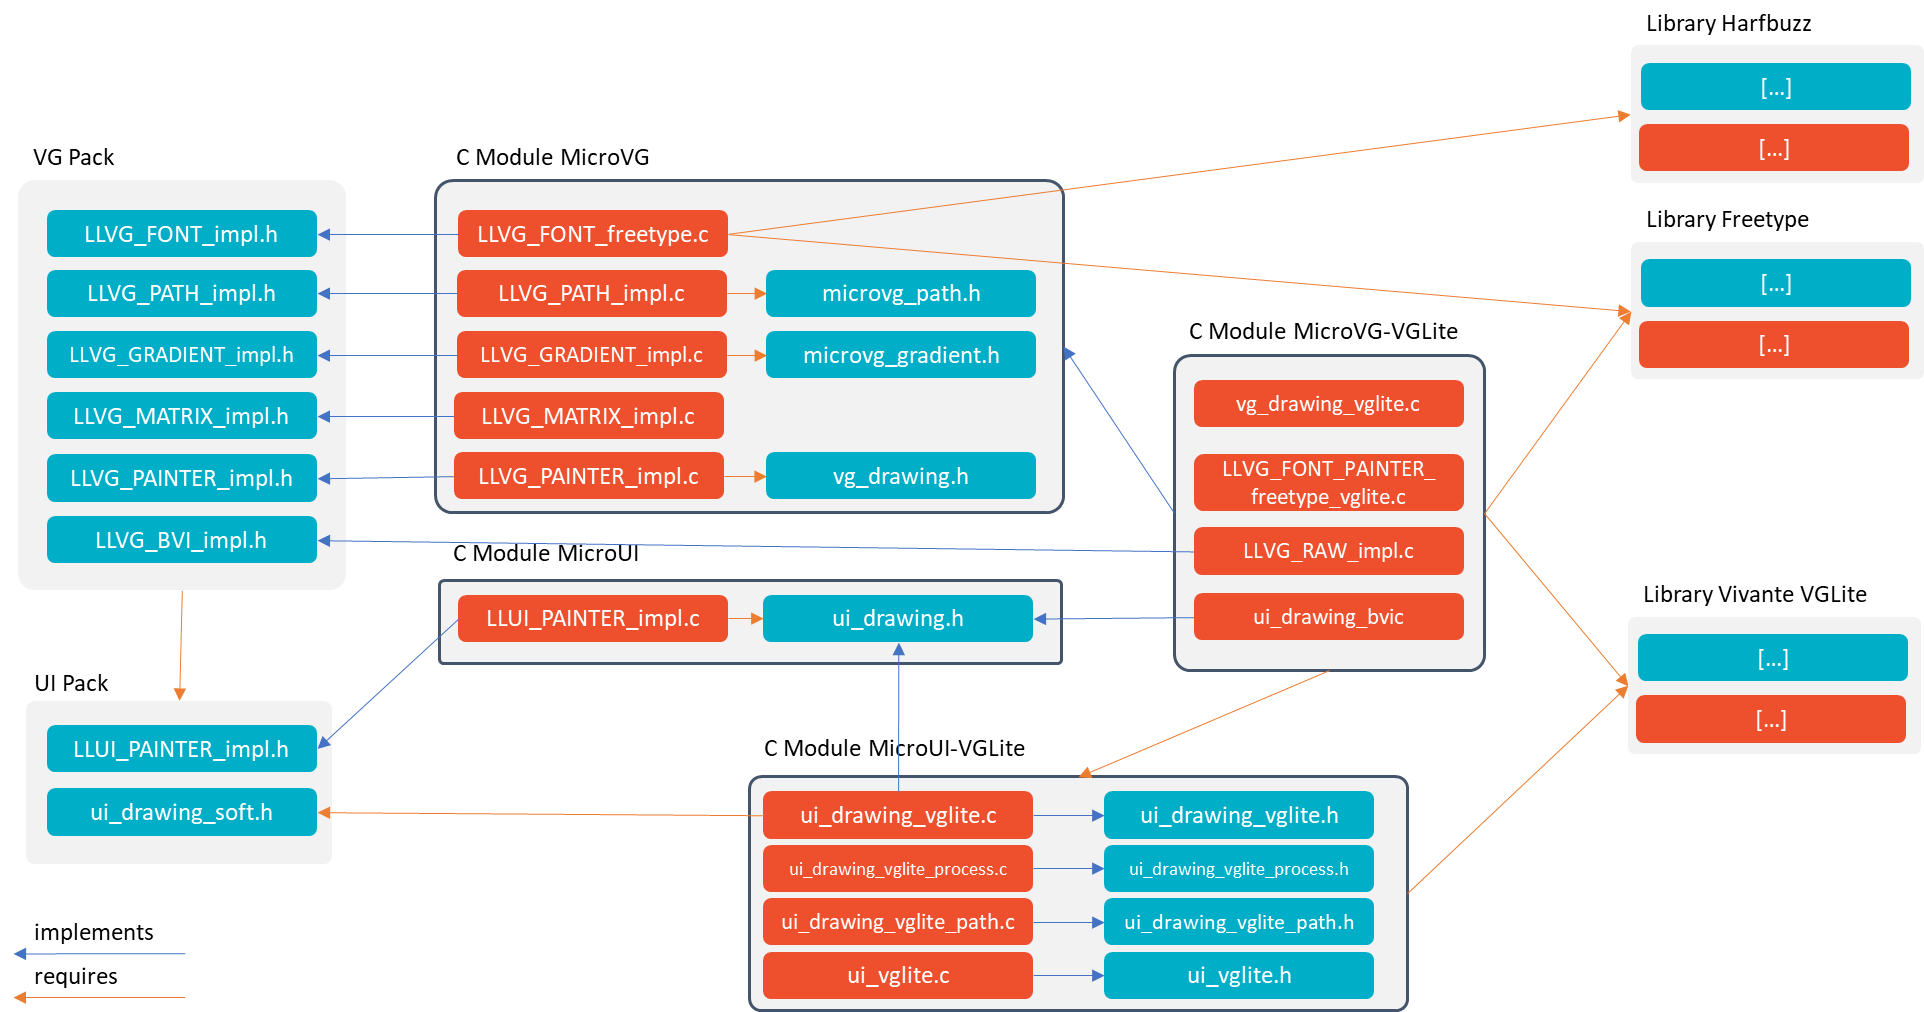
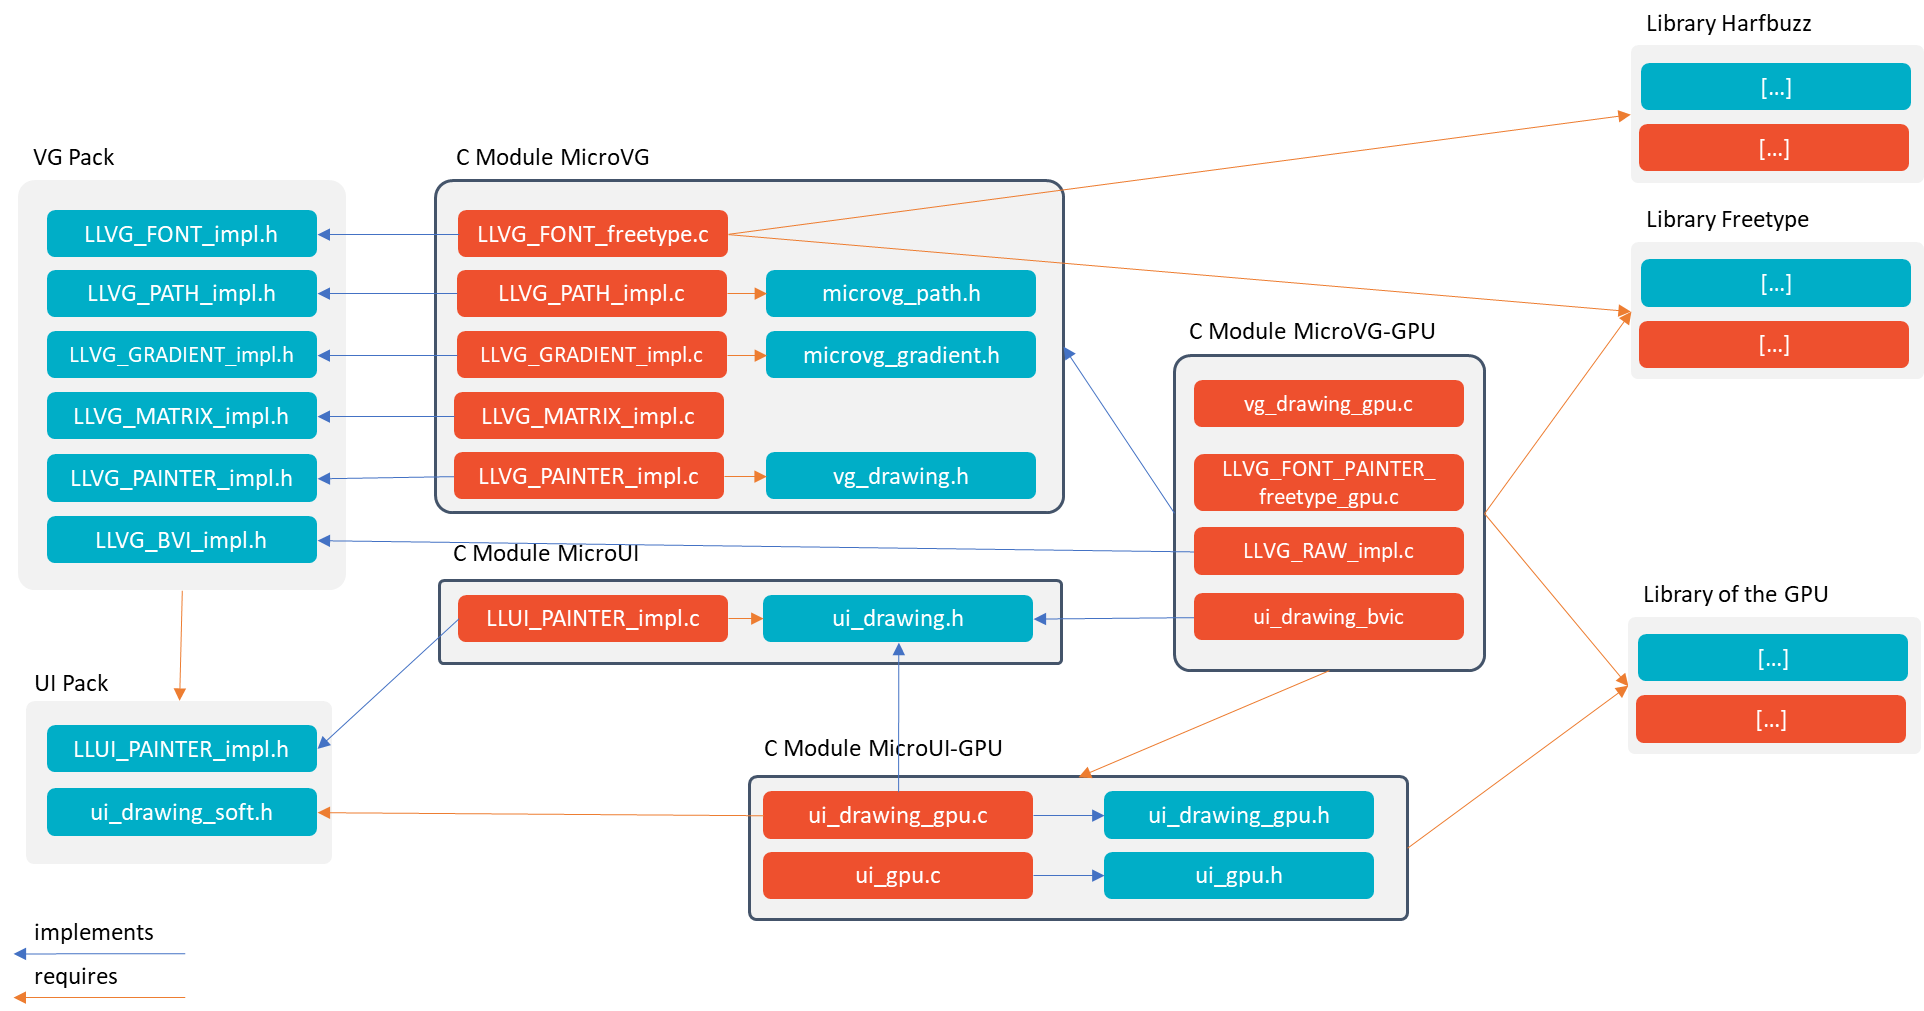
remove vglite

diff --git a/VEEPortingGuide/vgImage.rst b/VEEPortingGuide/vgImage.rst
@@ -17,6 +17,9 @@ This module is composed of several elements:
 Compile-time Image
 ==================
 
+Overview
+--------
+
 The Image module implements the MicroVG `VectorImage`_ framework.
 It provides an offline tool that consists in opening and decoding an image file and some Abstraction Layer APIs that manipulate the image at runtime.
 
@@ -59,7 +62,62 @@ This is an example of a ``vectorimage.list`` file:
    # Convert an SVG in signed 8-bit format
    /svg_image.svg:VG8
 
-Refer to the chapter :ref:`section_microvg_installation` for more information about the image generator configuration.
+The image generator provides some implementations that targets different GPUs:
+
+* ``NemaImageGenerator``: generates binary files compatible with the :ref:`section_vg_c_module_microvg_nema`.
+* ``VgliteImageGenerator``: generates binary files compatible with the :ref:`section_vg_c_module_microvg_vglite`.
+
+Refer to the chapter :ref:`section_microvg_installation` for more information about the image generator configuration or to the next chapter to target another GPU.
+
+.. _section_vg_image_generator_extension:
+
+Image Generator Extension
+-------------------------
+
+The Image Generator can be extended to target a new GPU. 
+This extension follows the same rules than the :ref:`MicroUI Image Generator extension<section_image_generator_extended>`.
+
+1. Create a ``std-javalib`` project. The module name must start with the prefix ``imageGenerator`` (for instance ``imageGeneratorMyGPU``).
+2. Add the dependency:
+
+   .. code-block:: xml
+
+      <dependency org="com.microej.pack.vg" name="vg-pack" rev="x.y.z">
+         <artifact name="vg-imageGenerator" type="jar"/>
+      </dependency>
+
+   Where ``x.y.z`` is the VG Pack version used to build the VEE Port (minimum ``1.6.0``). The ``module.ivy`` should look like:
+
+   .. code-block:: xml
+
+      <ivy-module version="2.0" xmlns:ea="http://www.easyant.org" xmlns:m="http://www.easyant.org/ivy/maven" xmlns:ej="https://developer.microej.com" ej:version="2.0.0">
+
+         <info organisation="com.microej.microui" module="imageGeneratorMyGPU" status="integration" revision="1.0.0">      
+            <ea:build organisation="com.is2t.easyant.buildtypes" module="build-std-javalib" revision="2.+"/>
+         </info>
+         
+         <configurations defaultconfmapping="default->default;provided->provided">
+            <conf name="default" visibility="public" description="Runtime dependencies to other artifacts"/>
+            <conf name="provided" visibility="public" description="Compile-time dependencies to APIs provided by the VEE Port"/>
+            <conf name="documentation" visibility="public" description="Documentation related to the artifact (javadoc, PDF)"/>
+            <conf name="source" visibility="public" description="Source code"/>
+            <conf name="dist" visibility="public" description="Contains extra files like README.md, licenses"/>
+            <conf name="test" visibility="private" description="Dependencies for test execution. It is not required for normal use of the application, and is only available for the test compilation and execution phases."/>
+         </configurations>
+         
+         <publications/>
+         
+         <dependencies>
+            <dependency org="com.microej.pack.vg" name="vg-pack" rev="[VG Pack version]">
+               <artifact name="vg-imageGenerator" type="jar"/>
+            </dependency>
+         </dependencies>
+      </ivy-module>
+
+3. Implements the interface ``ej.microvg.image.ImageGenerator``; the name of the class must be ``[Prefix]ImageGenerator`` where ``[Prefix]`` is the name that will be set in the VEE Port configuration file (see :ref:`section_microvg_installation`).
+4. Build the project.
+5. Copy the generated jar: ``target~/artifacts/imageGeneratorMyGPU.jar`` in the VEE Port configuration project folder: ``MyVEEPort-configuration/dropins/tools/``
+6. Rebuild the VEE Port.
 
 MicroVG Library
 ---------------
@@ -150,7 +208,7 @@ The way to register the drawing commands is strongly linked to the targeted GPU:
 As a consequence, the implementation is dedicated to the GPU.
 The :ref:`section_vg_cco` provide some implementations, and the Front Panel (for the Simulation) features the same limitations as the embedded side (it is not possible to store a MicroUI drawing in the simulator if the embedded side is not able to perform it).
 
-.. [#note_uibvi] The compatible MicroUI drawings depend on the GPU Port; see:ref:`section_vg_cco`.
+.. [#note_uibvi] The compatible MicroUI drawings depend on the GPU Port; see :ref:`section_vg_cco`.
 
 Runtime Image
 =============

diff --git a/VEEPortingGuide/vgCco.rst b/VEEPortingGuide/vgCco.rst
@@ -4,8 +4,6 @@
 C Modules
 =========
 
-XXX Multiple references to VGLite. Add information about Nema and rework the picture.
-
 Principle
 =========
 
@@ -18,7 +16,7 @@ The following picture illustrates the available C modules and their relations fo
 
 * FreeType library for the font renderer and the font layouter in simple layout mode.
 * Harfbuzz library for the font layouter in complex layout mode.
-* Vivante VGLite library for the drawing of vector paths
+* *GPU* library symbolizes the library for the drawing of vector paths over a GPU.
 
 The following chapters explain the aim and relations of each C module.
 
@@ -36,14 +34,6 @@ UI Pack & MicroUI C Modules
 
 The UI Pack provides a header file to implement the MicroUI drawings: ``LLUI_PAINTER_impl.h``.
 See :ref:`section_ui_cco` chapter to have more information.
-
-Library: Vivante VGLite
-=======================
-
-This library is the official Vivante VGLite library.
-The C modules use its header files to target the GPU.
-
-.. note:: The library must be patched to be compatible with the C module "MicroUI over VGLite". Consult the C module's ReadMe file for more information.
 
 VG Pack
 =======
@@ -175,7 +165,7 @@ Overview
 
 This C module is a specific implementation of the VG Pack drawings over the official Vivante VGLite library (that targets some GPU with vector graphics acceleration):
 
-* It implements the MicroVG API ``vg_drawing.h`` in ``vg_drawing_vglite.c`` and ``LLVG_PAINTER_FONT_freetype_vglite.c``.
+* It implements the MicroVG API ``vg_drawing.h`` in ``vg_drawing_vglite.c``.
 * It implements the MicroVG Image management (draw a compile-time image, create a BufferedVectorImage, etc.): ``LLVG_RAW_impl.c``. 
 * It provides an implementation of MicroVG drawings to the MicroVG BufferedVectorImage: ``vg_drawing_bvi.c``.
 * It also implements MicroUI drawings to the MicroVG BufferedVectorImage: ``ui_drawing_bvi.c``.
@@ -189,6 +179,8 @@ The implementation requires:
 
 This C module is available on the :ref:`developer_repository`: `com.microej.clibrary.llimpl#microvg-vglite`_.
 
+.. warning:: The library must be patched to be compatible with the C module "MicroUI over VGLite". Consult the C module's ReadMe file for more information.
+
 Usage
 -----
 
@@ -196,6 +188,42 @@ Usage
 2. Add all C files in the BSP project.
 
 .. _com.microej.clibrary.llimpl#microvg-vglite: https://forge.microej.com/artifactory/microej-developer-repository-release/com/microej/clibrary/llimpl/microvg-vglite/
+
+
+.. _section_vg_c_module_microvg_nema:
+
+C Module: MicroVG Over NemaVG
+=============================
+
+Overview
+--------
+
+This C module is a specific implementation of the VG Pack drawings over the official Think Silicon Nema VG library (that targets some GPU with vector graphics acceleration):
+
+* It implements the MicroVG API ``vg_drawing.h`` in ``vg_drawing_nema.c``.
+* It implements the MicroVG Image management (draw a compile-time image, create a BufferedVectorImage, etc.): ``vg_drawing_nema_image.c``. 
+* It provides an implementation of MicroVG drawings to the MicroVG BufferedVectorImage: ``vg_drawing_bvi.c``.
+* It also implements MicroUI drawings to the MicroVG BufferedVectorImage: ``ui_drawing_bvi.c``.
+
+The implementation requires:
+
+* the concepts of the C module MicroVG,
+* the concepts of the C module MicroUI over NemaVG,
+* the FreeType library,
+* the Think Silicon NemaVG library.
+
+This C module is available on the :ref:`developer_repository`: `com.microej.clibrary.llimpl#microvg-nema`_. 
+
+Usage
+-----
+
+1. This C module transitively fetches the :ref:`C Module for MicroUI for NemaGFX<section_ui_cco>`, follow its implementation rules.
+2. Add all C files in the BSP project.
+
+
+.. XXX_TODO wrong link
+.. _com.microej.clibrary.llimpl#microvg-nema: https://forge.microej.com/artifactory/microej-developer-repository-release/com/microej/clibrary/llimpl/microvg-vglite/
+
 
 Compatibility
 =============

diff --git a/VEEPortingGuide/uiImageGenerator.rst b/VEEPortingGuide/uiImageGenerator.rst
@@ -76,7 +76,7 @@ To do that the Image Generator provides some services to implement.
 This chapter explain how to create and include this extension in the VEE Port.
 Next chapters explain the aim of each service.
 
-1. Create a ``std-javalib`` project. The module name must start with the prefix ``imageGenerator`` (for instance ``imageGeneratorMyPlatform``).
+1. Create a ``std-javalib`` project. The module name must start with the prefix ``imageGenerator`` (for instance ``imageGeneratorMyVEEPort``).
 2. Add the dependency:
 
    .. code-block:: xml
@@ -85,13 +85,13 @@ Next chapters explain the aim of each service.
          <artifact name="imageGenerator" type="jar"/>
       </dependency>
 
-   Where ``x.y.z`` is the UI pack version used to build the VEE Port (minimum ``13.0.0``). The ``module.ivy`` should look like:
+   Where ``x.y.z`` is the UI Pack version used to build the VEE Port (minimum ``13.0.0``). The ``module.ivy`` should look like:
 
    .. code-block:: xml
 
       <ivy-module version="2.0" xmlns:ea="http://www.easyant.org" xmlns:m="http://www.easyant.org/ivy/maven" xmlns:ej="https://developer.microej.com" ej:version="2.0.0">
 
-         <info organisation="com.microej.microui" module="imageGeneratorMyPlatform" status="integration" revision="1.0.0">      
+         <info organisation="com.microej.microui" module="imageGeneratorMyVEEPort" status="integration" revision="1.0.0">      
             <ea:build organisation="com.is2t.easyant.buildtypes" module="build-std-javalib" revision="2.+"/>
          </info>
          
@@ -114,9 +114,9 @@ Next chapters explain the aim of each service.
       </ivy-module>
 
 3. Create the folder ``META-INF/services`` in source folder ``src/main/resources`` (this folder will be filled in later).
-4. When a service is added (see next chapters), build the easyant project.
-5. Copy the generated jar: ``target~/artifacts/imageGeneratorMyPlatform.jar`` in the VEE Port configuration project folder: ``MyPlatform-configuration/dropins/tools/``
-6. Rebuild the platform.
+4. When a service is added (see next chapters), build the project.
+5. Copy the generated jar: ``target~/artifacts/imageGeneratorMyVEEPort.jar`` in the VEE Port configuration project folder: ``MyVEEPort-configuration/dropins/tools/``
+6. Rebuild the VEE Port.
 
 .. _section_image_generator_test_extension_project:
 

diff --git a/VEEPortingGuide/vgMicrovg.rst b/VEEPortingGuide/vgMicrovg.rst
@@ -42,7 +42,7 @@ In the VEE Port configuration's :ref:`module description file <mmm_module_descri
    <dependency org="com.microej.pack.vg" name="vg-pack" rev="[VG Pack version]" conf="default->default"/>
 
 
-.. note:: The latest current pack version is |VGPACKVERSION|.
+.. note:: The latest current Pack version is |VGPACKVERSION|.
 
 The VG Pack will be automatically available after a VEE Port rebuild.
 
@@ -51,14 +51,19 @@ The VG Pack will be automatically available after a VEE Port rebuild.
 The properties file ``microvg/microvg.properties`` is required to configure the VG Pack.
 More specifically, it allows to configure the :ref:`section_vg_image_generator` and the front panel to fit a specific GPU.
 This properties file must contain a property named ``implementation``.
-Two values are currently available: ``vglite`` and ``nema``.
+Two values are currently available: 
+
+* ``nema``: to be compatible with the :ref:`Think Silicon Nema VG<section_vg_c_module_microvg_nema>` GPU.
+* ``vglite``: to be compatible with the :ref:`Vivante VGLite<section_vg_c_module_microvg_vglite>` GPU.
+
 Example:
 
 .. code-block:: XML
 
    implementation=nema
 
-
+A custom extension can be used to target another GPU. 
+The name of the property ``implementation`` is used to identify the :ref:`section_vg_image_generator_extension` and the :ref:`Front Panel Extension<section_vg_frontpanel_extension>`.
 
 Use
 ===

diff --git a/VEEPortingGuide/vgSimulation.rst b/VEEPortingGuide/vgSimulation.rst
@@ -11,6 +11,31 @@ The VG Pack embeds an extension of :ref:`UI Pack's Front Panel mock <section_ui_
 
 The implementation simulates the same characteristics and limitations as the embedded modules. 
 
+.. _section_vg_frontpanel_extension:
+
+Extension
+=========
+
+The Front Panel is configured to decode the images encoded for a specific GPU (see :ref:`section_vg_image_generator`).
+When a custom :ref:`section_vg_image_generator_extension` is used, the Front Panel must be extended to decode the images.
+This extension can be also used to simulate the limlitations of the MicroVG implementation over a GPU (unsupported blend modes, MicroUI drawings in a BufferedVectorImage, etc.). XXX_TODO
+
+In the VEE Port's Front Panel project:
+
+1. Add the dependency:
+
+   .. code-block:: xml
+
+      <dependency org="com.microej.pack.vg" name="vg-pack" rev="x.y.z">
+         <artifact name="vg-frontpanel" type="jar"/>
+      </dependency>
+
+   Where ``x.y.z`` is the VG Pack version used to build the VEE Port (minimum ``1.6.0``).
+
+2. Implements the interface ``ej.microvg.image.ImageDecoder``; the name of the class must be ``[Prefix]ImageDecoder`` where ``[Prefix]`` is the name that will be set in the VEE Port configuration file (see :ref:`section_microvg_installation`).
+3. XXX_TODO BVI limitations, VG limitations ?
+4. Rebuild the VEE Port.
+
 Installation
 ============
 

diff --git a/VEEPortingGuide/vgReleaseNotes.rst b/VEEPortingGuide/vgReleaseNotes.rst
@@ -60,7 +60,7 @@ In addition to generic C modules, the specific implementation of the VG Pack ove
 * the UI Pack C module: see :ref:`UI Pack <section_display_llapi>`,
 * and by consequence, the specific C module MicroUI over VGLite: see :ref:`section_ui_c_module_microui_vglite`.
 
-.. XXX add a reference to Nema and to :ref:`section_ui_c-module-microui-nemagfx`
+.. XXX_TODO add a reference to Nema and to :ref:`section_ui_c-module-microui-nemagfx`
 
 The following table describes the compatibility ranges between the VG Packs and the C modules (generic and specific):
 
@@ -86,7 +86,7 @@ The following table describes the compatibility ranges between the VG Packs and 
 | [1.0.0-1.1.0[ | n/a     | n/a      | n/a      | n/a            | n/a            | n/a          |
 +---------------+---------+----------+----------+----------------+----------------+--------------+
 
-XXX Reformulate this.
+XXX_TODO Reformulate this.
 .. note:: The C module ``MicroVG over VGLite`` fetches automatically by transitivity the other C modules. No need to fetch explicitly the different modules (except the C module ``Harfbuzz``). An update of this C module also updates (if necessary) the other C modules.
 
 ..

diff --git a/ApplicationDeveloperGuide/UI/MicroVG/vectorimage.rst b/ApplicationDeveloperGuide/UI/MicroVG/vectorimage.rst
@@ -14,10 +14,13 @@ Images that must be processed by the image generator tool are declared in ``*.ve
 
 Currently accepted formats are : 
 
-- ``:VGF``: vglite compatible format with coordinates encoded as float numbers (32 bits).
-- ``:VG32``: vglite compatible format with coordinates encoded as signed int numbers (32 bits).
-- ``:VG16``: vglite compatible format with coordinates encoded as signed short numbers (16 bits).
-- ``:VG8``: vglite compatible format with coordinates encoded as signed char numbers (8 bits).
+- ``:VGF``: MicroVG compatible format with coordinates encoded as float numbers (32 bits).
+- ``:VG32``: MicroVG compatible format with coordinates encoded as signed int numbers (32 bits).
+- ``:VG16``: MicroVG compatible format with coordinates encoded as signed short numbers (16 bits).
+- ``:VG8``: MicroVG compatible format with coordinates encoded as signed char numbers (8 bits).
+
+.. note:: The ouput format may be adjusted by the MicroVG engine to fit the capabilities of the vectorial GPU.
+
 
 Example:
 

diff --git a/VEEPortingGuide/vgLowLevel.rst b/VEEPortingGuide/vgLowLevel.rst
@@ -22,6 +22,8 @@ Embedded VEE Port
 
    MicroVG Embedded Abstraction Layer API
 
+XXX_TODO review the boxes with the latest version of naming convention
+
 The specification of header files names is:
 
 - Name starts with ``LLVG_``.
@@ -43,8 +45,7 @@ Simulator
 
 The Simulator's five VG engines are grouped in a :ref:`Front Panel extension <section_ui_simulation>`. 
 
-XXX review this note, the implementation is now compatible with several GPUs.
-.. note:: The current implementation is built-in in the VG Pack and is only compatible with the i.MX RT595 MCU (see :ref:`VG Pack note<pack_vg>`).
+This engine provides the compatibility with Vivante VGLite and Think Silicon Nema VG GPUs and it can be extended to fit another GPU.
 
 ..
    | Copyright 2008-2024, MicroEJ Corp. Content in this space is free 

diff --git a/VEEPortingGuide/vg.rst b/VEEPortingGuide/vg.rst
@@ -4,12 +4,6 @@
 Vector Graphics
 ===============
 
-.. note::
-
-   This chapter describes the VG Pack implementation.
-   The current VG Pack only targets the i.MX RT595 MCU (it is part of the `NXP i.MX RT500 <https://www.nxp.com/products/processors-and-microcontrollers/arm-microcontrollers/i-mx-rt-crossover-mcus/i-mx-rt500-crossover-mcu-with-arm-cortex-m33-dsp-and-gpu-cores:i.MX-RT500>`_  crossover MCU product line that embeds the Vivante GCNanoLiteV IP from Verisilicon).
-   Please contact our support team for other hardware accelerators (GPU with vector graphics acceleration).
-
 .. toctree::
     :maxdepth: 2
 

diff --git a/ApplicationDeveloperGuide/UI/MicroVG/usage.rst b/ApplicationDeveloperGuide/UI/MicroVG/usage.rst
@@ -11,13 +11,13 @@ To use the MicroVG Foundation Library, add `MicroVG API module`_ to the project 
 
       .. code-block:: java
 
-         implementation("ej.api:microvg:1.2.0")
+         implementation("ej.api:microvg:1.6.0")
 
    .. tab:: MMM (module.ivy)
 
       .. code-block:: xml
 
-         <dependency org="ej.api" name="microvg" rev="1.2.0"/>
+         <dependency org="ej.api" name="microvg" rev="1.6.0"/>
 
 
 The MicroVG Library brings the following features:

diff --git a/VEEPortingGuide/uiReplaces.rst b/VEEPortingGuide/uiReplaces.rst
@@ -1,7 +1,8 @@
 
 .. |UIPACKVERSION| replace:: 14.0.1
    
-.. |VGPACKVERSION| replace:: 1.5.1
+.. |VGPACKVERSION| replace:: 1.6.0
+.. |VGAPIVERSION| replace:: 1.6.0
 
 .. _C Module MicroUI 4.0.1: https://repository.microej.com/modules/com/microej/clibrary/llimpl/microui/4.0.1/
 .. _C Module MicroUI 4.0.0: https://repository.microej.com/modules/com/microej/clibrary/llimpl/microui/4.0.0/

diff --git a/VEEPortingGuide/vgMigrationGuide.rst b/VEEPortingGuide/vgMigrationGuide.rst
@@ -8,7 +8,7 @@ Migration Guide
 From 1.5.x to 1.6.0
 ===================
 
-XXX Specify the implementation name :ref:`section_microvg_installation`
+XXX_TODO Specify the implementation name :ref:`section_microvg_installation`
 
 From 1.4.x to 1.5.1
 ===================
